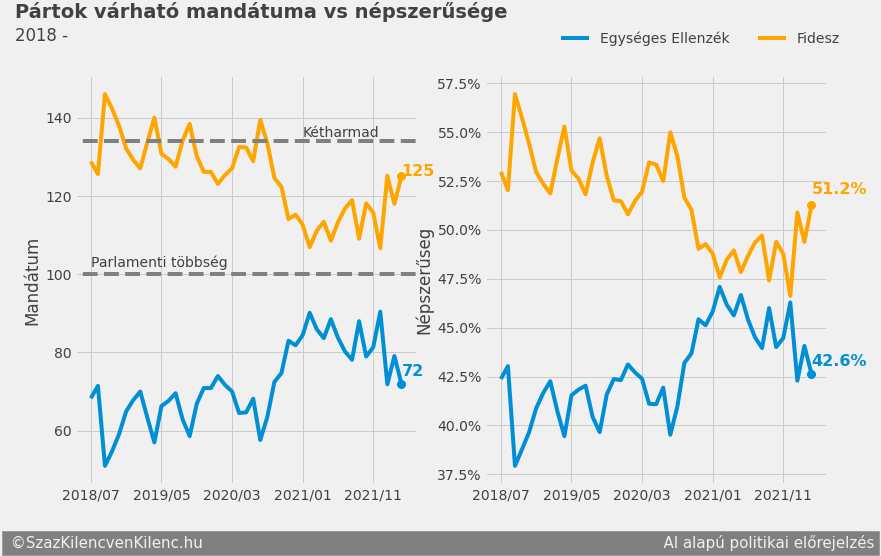
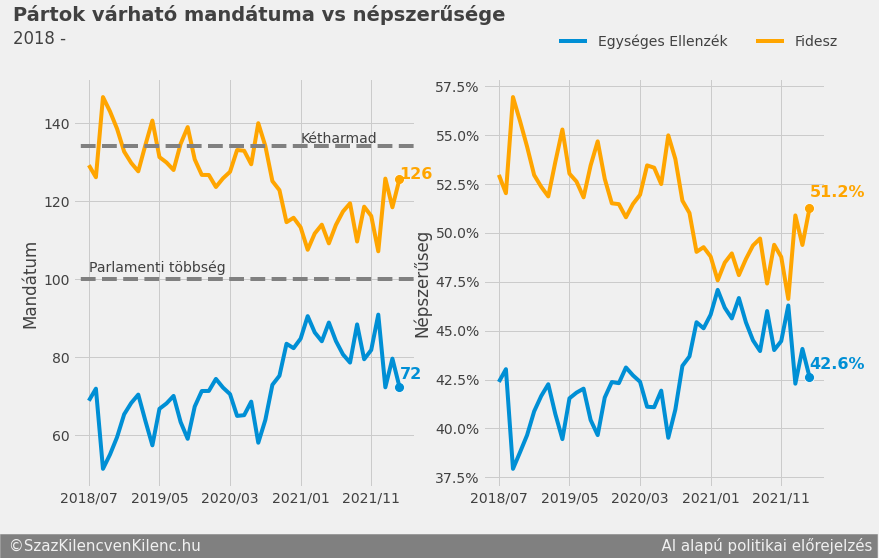
fix numbers in article

diff --git a/_posts/2022-04-01-eredmenyek-2022-04-01.md b/_posts/2022-04-01-eredmenyek-2022-04-01.md
@@ -12,7 +12,7 @@ hidden: false
 
 *Számos választások előtti utolsó közvéleménykutatás került publikálásra. Várhatóan mi is az utolsó előrejelzésünket közüljük a választások előtt. A szavazás közelsége jelentősen csökkenti a modell belső bizonytalanságát.*
 
-Mesterséges intelligencia alapú előrejelző modellünk szerint a Fidesz növelte előnyét az orosz-ukrán háború kitörése óta, viszont némileg visszaesett a hónap közepéhez mértekhez képest. Támogatottságának így is stabil előnye van az ellezékéhez képest. Ez mandátumra lefordítva az arányosnál nagyobb különbséget jelent, mely stabil többséget biztosítana a jelenlegi kormánypártnak a következő parlamentben.
+Mesterséges intelligencia alapú előrejelző modellünk szerint a Fidesz növelte előnyét az orosz-ukrán háború kitörése óta, viszont némileg visszaesett a március közepéhez mértekhez képest. Támogatottságának így is stabil előnye van az ellezékéhez képest. Ez mandátumra lefordítva az arányosnál nagyobb különbséget jelent, mely stabil többséget biztosítana a jelenlegi kormánypártnak a következő parlamentben.
 
   ![Eredmények](/assets/images/20220401/idosor_20220401.png)
 
@@ -29,9 +29,9 @@ Megvizsgálva néhány valószínű és kevésbé valószínű eseményt az alá
 | A Fidesz szerzi a legtöbb szavazatot   | 97,5%     |
 | Az Egyesült Ellenzék szerzi a legtöbb szavazatot     | 2,5%       |
 | A Fidesz szerzi a legtöbb mandátumot   | 99,2%     |
-| Az Egyesült Ellenzék szerzi a legtöbb mandátumot     | 0,8%       |
+| Az Egyesült Ellenzék szerzi a legtöbb mandátumot     | 0,7%       |
 | A Fidesz szerzi a legtöbb mandátumot, de nem lesz 50%-os többsége (a kisebbségi képviselők miatt)   | 0,01%     |
-| A Fidesz 2/3-os többséget szerez    | 17,8%       |
+| A Fidesz 2/3-os többséget szerez    | 22,5%       |
 | Az Egyesült Ellenzék 2/3-os többséget szerez   | 0%     |
 | A Fidesz nyeri a legtöbb mandátumot, habár kevesebb szavazatot kap, mint a másik oldal    | 1,7%       |
 | Az Egyesült Ellenzék nyeri a legtöbb mandátumot, habár kevesebb szavazatot kap, mint a másik oldal   | 0%     |
@@ -41,15 +41,15 @@ Megvizsgálva néhány valószínű és kevésbé valószínű eseményt az alá
 
 Több visszaélés gyanús eset került nyilvánosságra a levélszavazatok körül. A legutóbbi parlamenti választásokon a levélszavazatok egy extra mandátumot eredményeztek a Fidesznek (a levélszavazatok 95%-át gyűjtötték össze), ami bár nem tűnik soknak, de éppen biztosította a 2/3-os többséget.
 
-A fenti előrejelző modellben megvizsgáltunk két további lehetőséget. Az egyik mi történne, ha nem lennének levélszavazatok, a másik pedig mi lenne, ha duplájára nőne a levélszavazatok száma. Az látszik bár ez plusz-minusz egy szavazatot eredményezne egyik vagy másik oldal javára, de döntően nem befolyásolná a választások kimentelét, nem növelné jelentősen sem a fideszes 2/3 sem az ellenzéki győzelem esélyét.
+A fenti előrejelző modellben megvizsgáltunk két további lehetőséget. Az egyik mi történne, ha nem lennének levélszavazatok, a másik pedig mi lenne, ha duplájára nőne a levélszavazatok száma. Az látszik, hogy bár ez plusz-minusz egy-két szavazatot eredményezne egyik vagy másik oldal javára, de döntően nem befolyásolná a választások kimentelét, nem növelné jelentősen sem a fideszes 2/3 sem az ellenzéki győzelem esélyét.
 
 | Esemény | Várható eredmény | Várható eredmény levélszavazatok nélkül | Várható eredmény dupla levélszavazattal |
 | :---         |     :---:      |     :---:      |     :---:      |
-| A Fidesz várható mandátumainak száma   | 125     | 124     | 126     |
-| Az Egyesült Ellenzék várható mandátumainak száma   | 72     | 73     | 71    |
-| A Fidesz szerzi a legtöbb mandátumot   | 99,2%     | 99,2%     | 99,3%     |
-| Az Egyesült Ellenzék szerzi a legtöbb mandátumot     | 0,8%       | 0,8%       | 0,7%       |
-| A Fidesz 2/3-os többséget szerez    | 17,8%       | 17,4%       | 23,6%       |
+| A Fidesz várható mandátumainak száma   | 126     | 124     | 127     |
+| Az Egyesült Ellenzék várható mandátumainak száma   | 72     | 74     | 71    |
+| A Fidesz szerzi a legtöbb mandátumot   | 99,2%     | 99,1%     | 99,3%     |
+| Az Egyesült Ellenzék szerzi a legtöbb mandátumot     | 0,7%       | 0,8%       | 0,7%       |
+| A Fidesz 2/3-os többséget szerez    | 22,5%       | 16,3%       | 25,9%       |
 | Az Egyesült Ellenzék 2/3-os többséget szerez   | 0%     | 0%     | 0%     |
 
 
